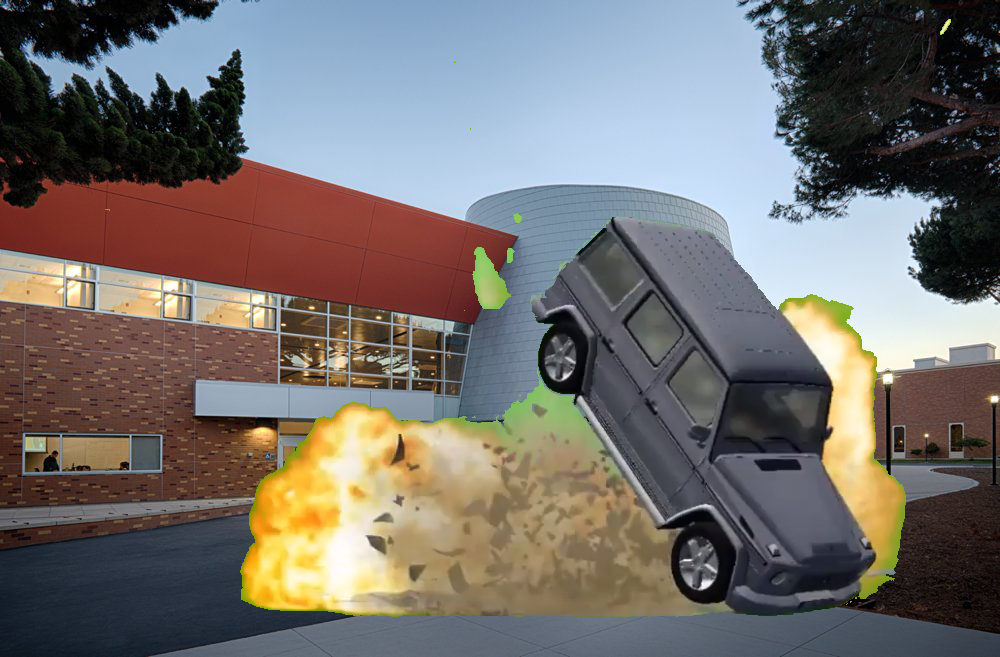
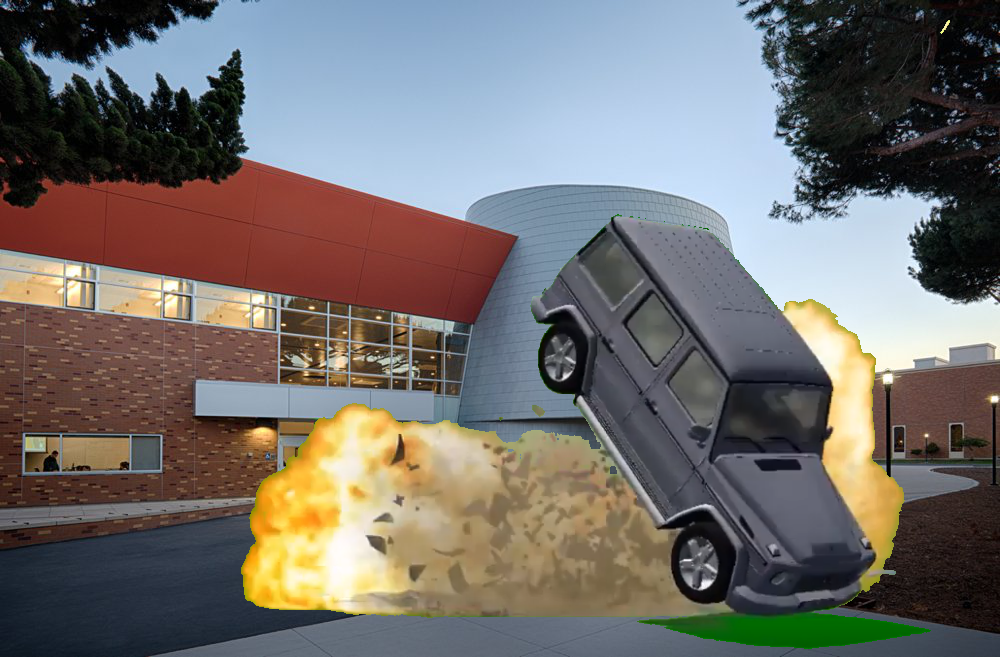
lab78 completed

diff --git a/labs/lab7/colormath_chroma.py b/labs/lab7/colormath_chroma.py
@@ -3,25 +3,33 @@ from colormath.color_conversions import convert_color
 from colormath.color_diff import delta_e_cie2000
 from PIL import Image
 
-target_green = (0, 190, 60)
-color_distance = 40
 
-def distance(color_1, color_2):
-	color1_rgb = sRGBColor(color_1[0],color_1[1],color_1[2],True);
-	color2_rgb = sRGBColor(color_2[0],color_2[1],color_2[2],True);
-	color1_lab = convert_color(color1_rgb, LabColor);
-	color2_lab = convert_color(color2_rgb, LabColor);
-	return delta_e_cie2000(color1_lab, color2_lab);
+#solution from professor modes' slides
+def distance(color1, color2):
+    """returns color distance"""
+    color1_rgb = sRGBColor(color1[0],color1[1],color1[2], True);
+    color2_rgb = sRGBColor(color2[0],color2[1],color2[2], True);
+    # convert the colors to LabColor
+    color1_lab = convert_color(color1_rgb, LabColor);
+    color2_lab = convert_color(color2_rgb, LabColor);
+    # get the distance
+    return delta_e_cie2000(color1_lab, color2_lab) 
 
-def chromakey(background, greenscreen):
-    new_image = Image.new("RGB", (greenscreen.width,greenscreen.height), "black")
-    for x in range(background.width):
-            for y in range(background.height):
+#solution from professor modes' slides
+def chromakey(background, greenscreen, new_image):
+    """creates a new image with the target green changed to background image"""
+    for x in range(new_image.width):
+            for y in range(new_image.height):
+
                 background_pixel = background.getpixel((x,y))
                 new_pixel = background_pixel
+
+                green = (0, 190, 60)
+
+
                 if (y < greenscreen.height and x < greenscreen.width):
                     greenscreen_pixel = greenscreen.getpixel((x,y)) 
-                    if distance(greenscreen_pixel, target_green) > color_distance:
+                    if distance(greenscreen_pixel, green) > 20:
                         new_pixel = greenscreen_pixel;
                 new_image.putpixel((x,y), new_pixel)
 
@@ -29,9 +37,10 @@ def chromakey(background, greenscreen):
     return new_image
 
 
-greenscreen= Image.open("images/hartnell_planetarium.jpg")
 
-background = Image.open("images/car_greenscreen.png")
+background = Image.open("images/hartnell_planetarium.jpg")
+greenscreen = Image.open("images/car_greenscreen.png")
+new_image = Image.new("RGB", (background.width,background.height), "white")
 
-our_new_image = chromakey(background, greenscreen)
+our_new_image = chromakey(background, greenscreen, new_image)
 our_new_image.show()

diff --git a/labs/lab8/song.py b/labs/lab8/song.py
@@ -1,0 +1,24 @@
+#
+# song.py
+# Created by Nicolas Lara Fonseca and Rodrigo Andrade
+# 19 February 2020
+# 
+
+class Song:
+	"""Song Object"""
+	def __init__(self,name,artist,genre,length,album):
+		self.name = name
+		self.artist = artist
+		self.genre = genre
+		self.length = length
+		self.album = album
+
+song_list=[]
+song_list.append(Song('Been Away','Brent Faiyaz','R&B/Soul',224,'F the World'))
+song_list.append(Song('Blue World','Mac Miller','Hip-Hop/Rap',209,'Circles'))
+song_list.append(Song('Sacrifices','Drake','Hip-Hop/Rap',308,'More Life'))
+song_list.append(Song('No Bullets Spent','Spoon','Alternative',221,'Everything Hits at Once'))
+
+for s in song_list:
+	print(f'{s.name} by {s.artist} off their album {s.album}, is classified as {s.genre} and is {s.length} seconds long.\n')
+

diff --git a/labs/lab7/test.py b/labs/lab7/test.py
@@ -1,0 +1,24 @@
+from colormath.color_objects import sRGBColor, LabColor
+from colormath.color_conversions import convert_color
+from colormath.color_diff import delta_e_cie2000
+
+import math
+color1=(255,0,0)
+color2=(0,0,255)
+
+
+
+red_diff = math.pow((color1[0] - color2[0]), 2)
+green_diff = math.pow((color1[1] - color2[1]), 2)
+blue_diff = math.pow((color1[2] - color2[2]), 2)
+print(math.sqrt(red_diff + green_diff + blue_diff))
+
+# define colors as RGB objects
+color1_rgb = sRGBColor(255, 0, 0, True);
+color2_rgb = sRGBColor(0, 0, 255, True);
+# convert the colors to LabColor
+color1_lab = convert_color(color1_rgb, LabColor);
+color2_lab = convert_color(color2_rgb, LabColor);
+# get the distance
+delta_e = delta_e_cie2000(color1_lab, color2_lab);
+print(f'The difference is {delta_e}.')

diff --git a/labs/lab8/img_object.py b/labs/lab8/img_object.py
@@ -1,0 +1,23 @@
+#
+# img_object.py
+# Created by Nicolas Lara Fonseca and Rodrigo Andrade
+# 19 February 2020
+# 
+
+from PIL import Image
+
+le = Image.open('images/nick_kong.jpg')
+
+# thumbnail() resizes an image according to tuple passed in
+# le.thumbnail((100,100))
+# le.show()
+
+# creates a histogram containing all 768 color intensities 
+# print(le.histogram())
+
+# creates a copy of the image with the number of colors passed in 
+le= le.quantize(2) 
+le.save('images/quantized_img.png')
+
+le.show()
+

diff --git a/in-class/classes/first_class.py b/in-class/classes/first_class.py
@@ -1,0 +1,19 @@
+class Color:
+	"""docstring for Contact"""
+	def __init__(self,name, red, green, blue):
+		self.name = name
+		self.red = red
+		self.green =green
+		self.blue =blue
+	def luminosity(self):
+		return (self.red + self.green + self.blue)/3
+
+blue = Color("boring blue", 0, 0, 255)
+green = Color("normal green", 0, 255, 0)
+
+
+print(f"{blue.name}'s luminosity is ", blue.luminosity())
+
+
+
+		
